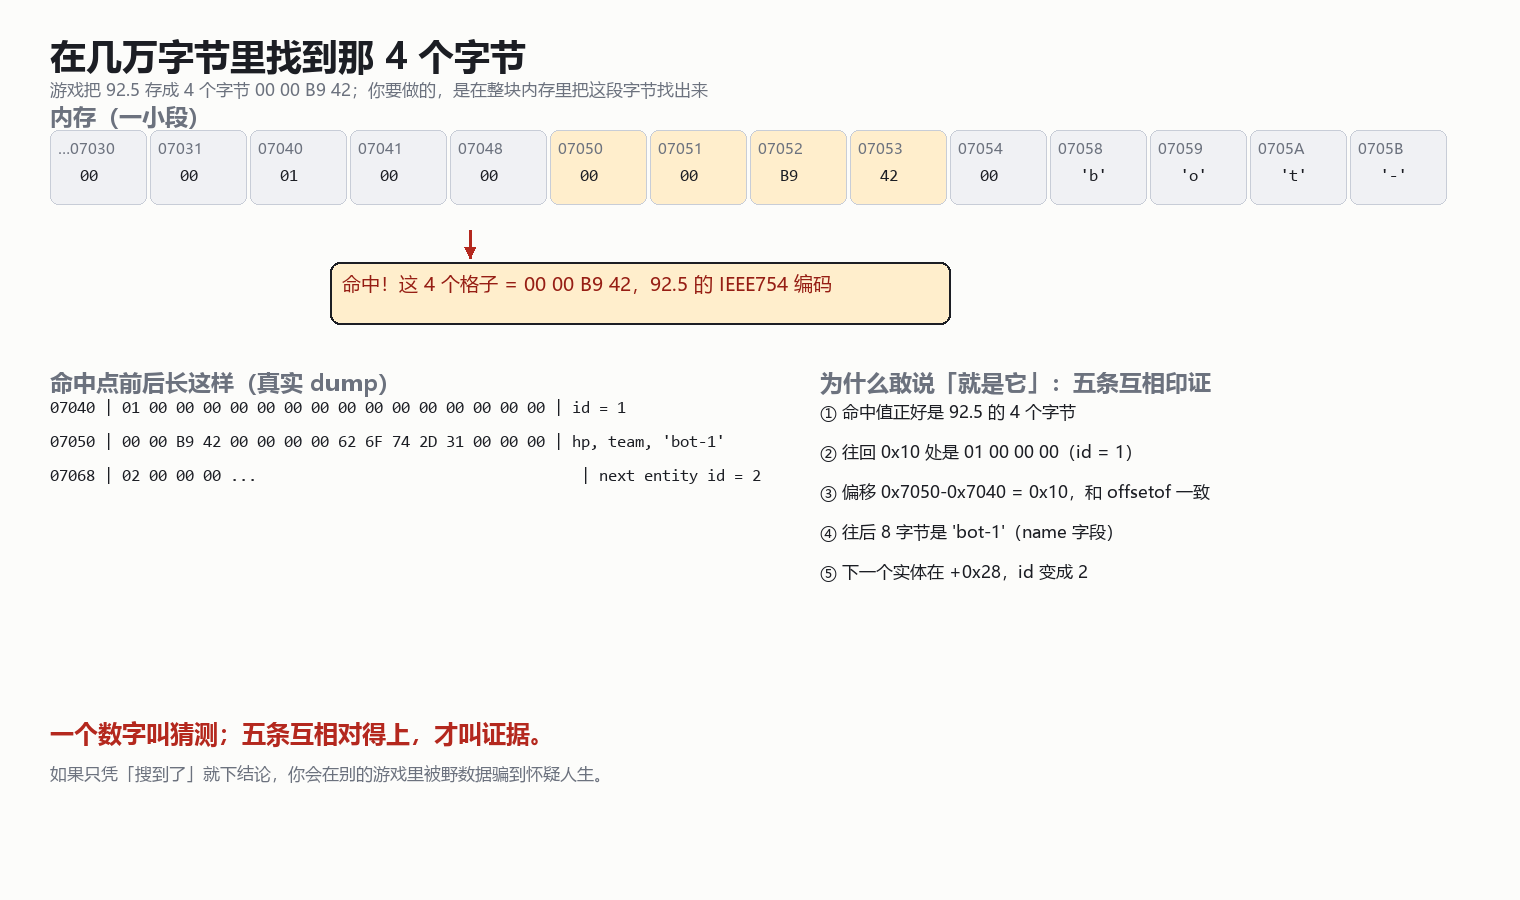
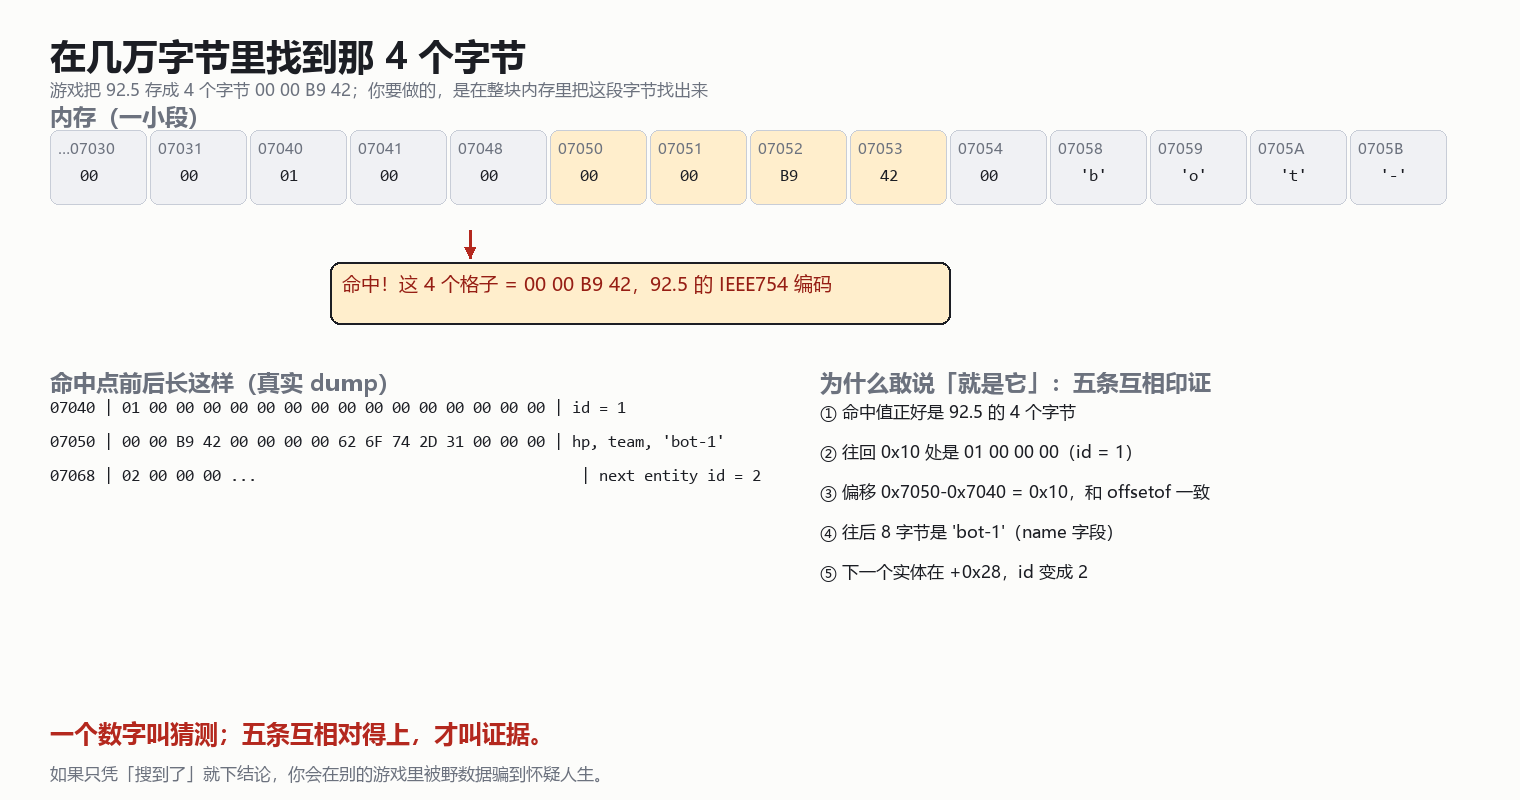
图：裁掉 02 概念图底部多余留白

diff --git a/labs/00-memory-model/tools/gen_lab_diagrams.py b/labs/00-memory-model/tools/gen_lab_diagrams.py
@@ -44,7 +44,7 @@ def box(d, x, y, w, h, lines, fill=(255, 255, 255), fonts=None, colors=None):
 
 # ======================================================= 02
 W, H = 1520, 900
-img = Image.new("RGB", (W, H), (252, 252, 250))
+img = Image.new("RGB", (W, 800), (252, 252, 250))
 d = ImageDraw.Draw(img)
 h1, h2, body, small, mono, tin = f(F_B, 36), f(F_B, 23), f(F_R, 19), f(F_R, 17), f(F_M, 17), f(F_R, 15)
 
